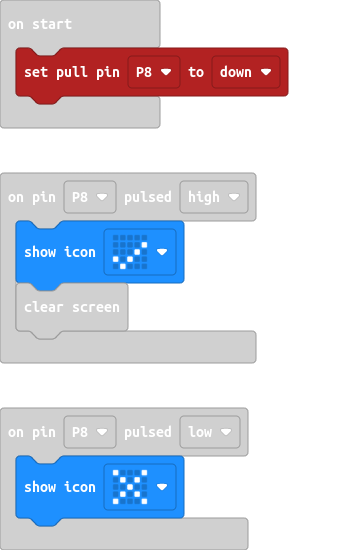
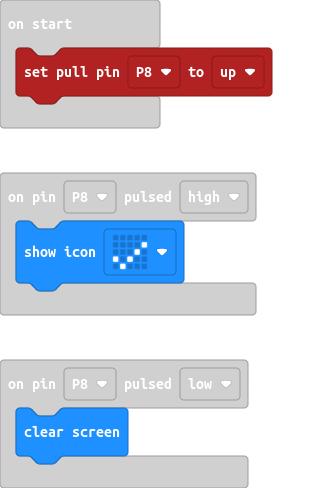
pull up at startup . show on press + cls on release

diff --git a/main.ts b/main.ts
@@ -2,13 +2,12 @@ input.onPinPressed(TouchPin.P0, function () {
 	
 })
 pins.onPulsed(DigitalPin.P8, PulseValue.Low, function () {
-    basic.showIcon(IconNames.No)
+    basic.clearScreen()
 })
 pins.onPulsed(DigitalPin.P8, PulseValue.High, function () {
     basic.showIcon(IconNames.Yes)
-    basic.clearScreen()
 })
-pins.setPull(DigitalPin.P8, PinPullMode.PullDown)
+pins.setPull(DigitalPin.P8, PinPullMode.PullUp)
 basic.forever(function () {
 	
 })
